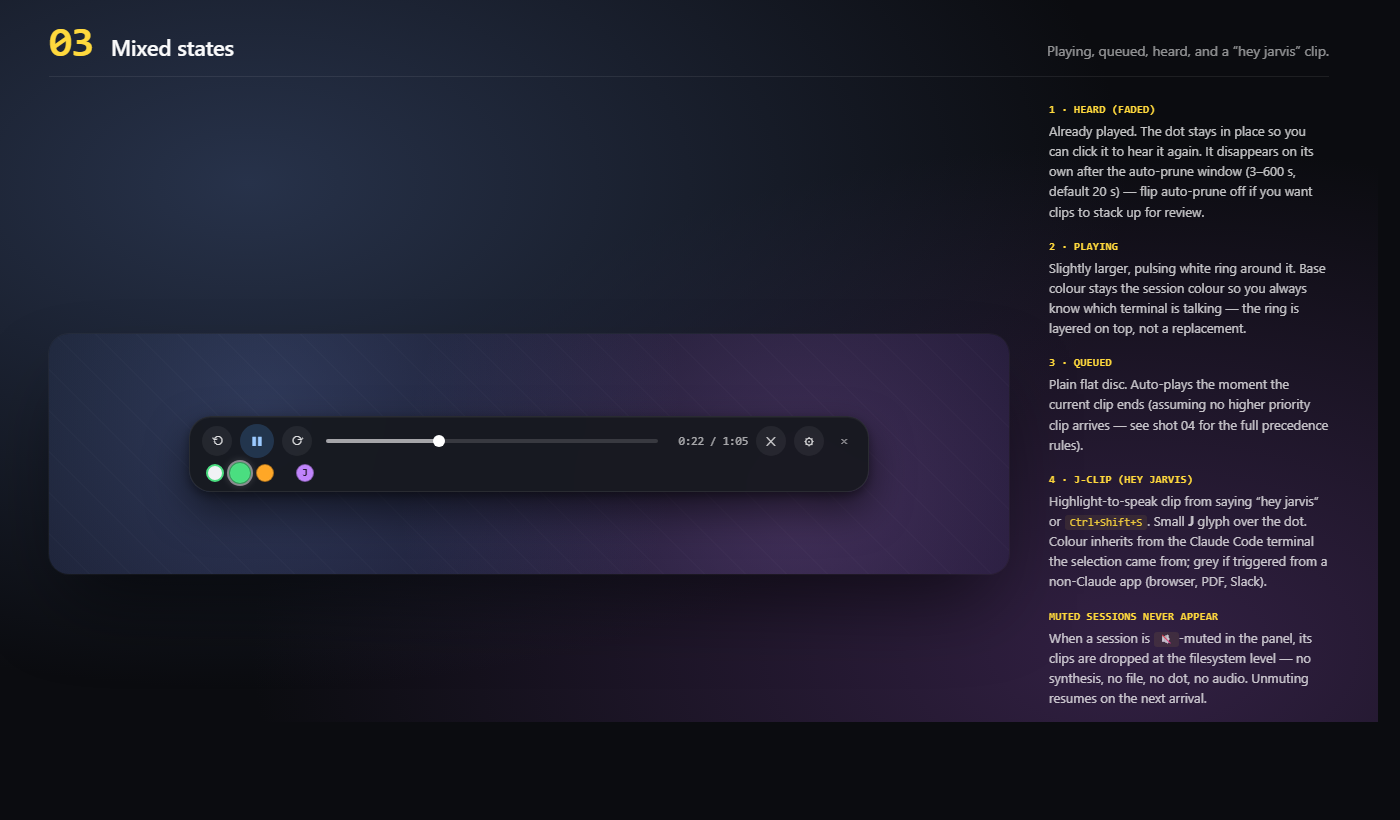
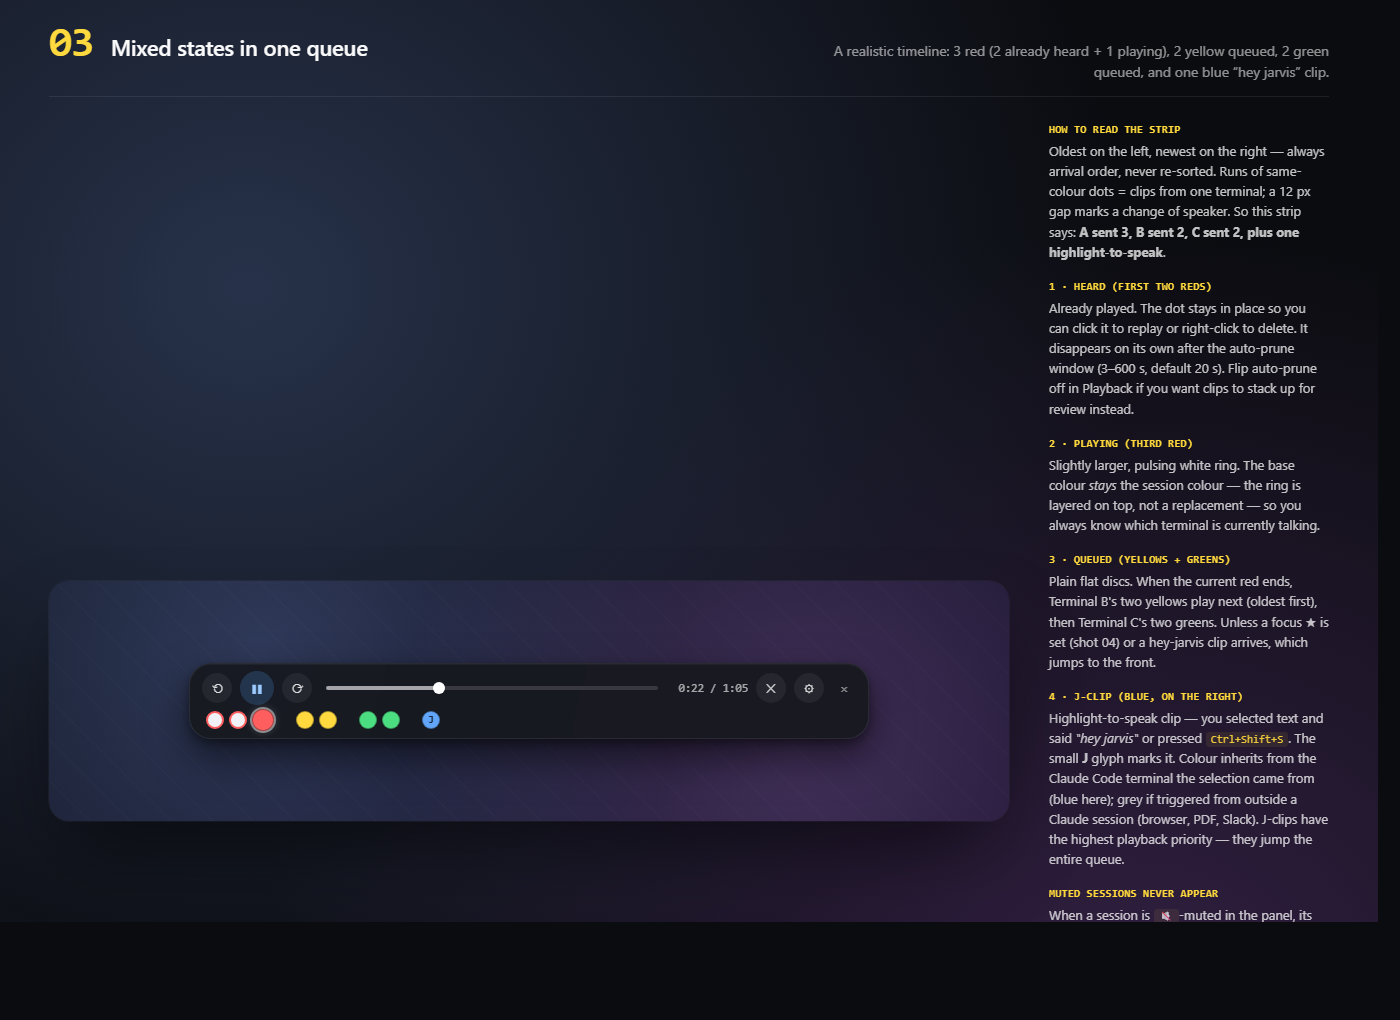
docs(mocks): expand shot 03 — full mixed-state queue story
Previously showed only four dots without any clustering context.
Now matches shot 02's run-grouped layout with real state mix:

- Run 1 · Terminal A (red) · 3 clips: first two heard (faded,
  click to replay, right-click to delete), third playing with
  the pulsing white ring.
- gap · Run 2 · Terminal B (yellow) · 2 queued flat discs.
- gap · Run 3 · Terminal C (green) · 2 queued flat discs.
- gap · J-clip from hey-jarvis / Ctrl+Shift+S — blue so you can
  see it inherits the source terminal's colour.

Annotations walk through each state in place (how to read the
strip, the two heard reds, the playing third red, the yellow
+ green queued, the J-clip priority), plus cover: muted sessions
never produce dots, left/right-click interactions, and the trash
button for clear-all.

Shot height bumped to 1020 px so the 8-annotation column fits.

diff --git a/docs/design-system/mocks-annotated.html b/docs/design-system/mocks-annotated.html
@@ -743,8 +743,8 @@
   <section>
     <div class="shot-head">
       <div class="num">03</div>
-      <div class="title">Mixed states</div>
-      <div class="caption">Playing, queued, heard, and a “hey jarvis” clip.</div>
+      <div class="title">Mixed states in one queue</div>
+      <div class="caption">A realistic timeline: 3 red (2 already heard + 1 playing), 2 yellow queued, 2 green queued, and one blue “hey jarvis” clip.</div>
     </div>
 
     <div class="stage">
@@ -765,11 +765,21 @@
           </div>
           <div class="dots-row">
             <div class="dots">
-              <div class="dot c-green heard"></div>
-              <div class="dot c-green playing"></div>
-              <div class="dot c-orange"></div>
+              <!-- Run 1: Terminal A (red) — 3 clips, two heard, one playing -->
+              <div class="dot c-red heard"></div>
+              <div class="dot c-red heard"></div>
+              <div class="dot c-red playing"></div>
               <span class="dots-run-gap"></span>
-              <div class="dot c-purple j"></div>
+              <!-- Run 2: Terminal B (yellow) — 2 queued -->
+              <div class="dot c-yellow"></div>
+              <div class="dot c-yellow"></div>
+              <span class="dots-run-gap"></span>
+              <!-- Run 3: Terminal C (green) — 2 queued -->
+              <div class="dot c-green"></div>
+              <div class="dot c-green"></div>
+              <span class="dots-run-gap"></span>
+              <!-- J-clip: highlight-to-speak from a Claude terminal (blue) -->
+              <div class="dot c-blue j"></div>
             </div>
           </div>
         </div>
@@ -778,28 +788,36 @@
       <div class="annotations">
         <dl>
           <div>
-            <dt>1 · Heard (faded)</dt>
-            <dd>Already played. The dot stays in place so you can click it to hear it again. It disappears on its own after the auto-prune window (3–600 s, default 20 s) — flip auto-prune off if you want clips to stack up for review.</dd>
+            <dt>How to read the strip</dt>
+            <dd>Oldest on the left, newest on the right — always arrival order, never re-sorted. Runs of same-colour dots = clips from one terminal; a 12 px gap marks a change of speaker. So this strip says: <b>A sent 3, B sent 2, C sent 2, plus one highlight-to-speak</b>.</dd>
           </div>
           <div>
-            <dt>2 · Playing</dt>
-            <dd>Slightly larger, pulsing white ring around it. Base colour stays the session colour so you always know which terminal is talking — the ring is layered on top, not a replacement.</dd>
+            <dt>1 · Heard (first two reds)</dt>
+            <dd>Already played. The dot stays in place so you can click it to replay or right-click to delete. It disappears on its own after the auto-prune window (3–600 s, default 20 s). Flip auto-prune off in Playback if you want clips to stack up for review instead.</dd>
           </div>
           <div>
-            <dt>3 · Queued</dt>
-            <dd>Plain flat disc. Auto-plays the moment the current clip ends (assuming no higher priority clip arrives — see shot 04 for the full precedence rules).</dd>
+            <dt>2 · Playing (third red)</dt>
+            <dd>Slightly larger, pulsing white ring. The base colour <i>stays</i> the session colour — the ring is layered on top, not a replacement — so you always know which terminal is currently talking.</dd>
           </div>
           <div>
-            <dt>4 · J-clip (hey jarvis)</dt>
-            <dd>Highlight-to-speak clip from saying “hey jarvis” or <code>Ctrl+Shift+S</code>. Small <b>J</b> glyph over the dot. Colour inherits from the Claude Code terminal the selection came from; grey if triggered from a non-Claude app (browser, PDF, Slack).</dd>
+            <dt>3 · Queued (yellows + greens)</dt>
+            <dd>Plain flat discs. When the current red ends, Terminal B's two yellows play next (oldest first), then Terminal C's two greens. Unless a focus ★ is set (shot 04) or a hey-jarvis clip arrives, which jumps to the front.</dd>
+          </div>
+          <div>
+            <dt>4 · J-clip (blue, on the right)</dt>
+            <dd>Highlight-to-speak clip — you selected text and said <i>"hey jarvis"</i> or pressed <code>Ctrl+Shift+S</code>. The small <b>J</b> glyph marks it. Colour inherits from the Claude Code terminal the selection came from (blue here); grey if triggered from outside a Claude session (browser, PDF, Slack). J-clips have the highest playback priority — they jump the entire queue.</dd>
           </div>
           <div>
             <dt>Muted sessions never appear</dt>
-            <dd>When a session is <code>🔇</code>-muted in the panel, its clips are dropped at the filesystem level — no synthesis, no file, no dot, no audio. Unmuting resumes on the next arrival.</dd>
+            <dd>When a session is <code>🔇</code>-muted in the panel, its clips are dropped at arrival — no synthesis, no file on disk, no dot, no audio. The statusline in that terminal shows a <code>🔇</code> prefix so you remember. Unmuting resumes on the next clip the terminal produces.</dd>
           </div>
           <div>
-            <dt>Right-click to delete</dt>
-            <dd>Right-click any dot to remove it immediately (without waiting for auto-prune). Left-click plays it again.</dd>
+            <dt>Click / right-click</dt>
+            <dd>Left-click any dot to (re)play it manually. Right-click to remove it from the queue immediately without waiting for auto-prune. Both work on heard clips and queued clips.</dd>
+          </div>
+          <div>
+            <dt>Clear all</dt>
+            <dd>The ✕ (trash) button in the controls row wipes <i>every</i> clip at once — useful when three chatty terminals fire at the same time and you just want quiet. Held clips (currently playing) finish first; the rest drop.</dd>
           </div>
         </dl>
       </div>

diff --git a/README.md b/README.md
@@ -57,13 +57,13 @@ The baseline. 680 × 64 frameless two-row pill, always-on-top, drag anywhere to 
 
 Three terminals queued in arrival order: **3 red** from Terminal A (first one playing, 2 queued behind), **3 yellow** from Terminal B, **2 green** from Terminal C. The 12 px gap between runs marks a change of speaker so the timeline reads as **A A A — B B B — C C** at a glance. Oldest left, newest right, never re-sorted. If Terminal C has the important message you'd wait through 5 clips first — that's the story shot 04's focus-star solves.
 
-### 03 · Mixed states
+### 03 · Mixed states in one queue
 
 <p align="center">
-  <img src="docs/screenshots/toolbar-mixed-states.png" alt="Four dot states: heard (faded), playing (pulsing ring), queued (flat disc), J-clip (hey jarvis highlight-to-speak)" width="900">
+  <img src="docs/screenshots/toolbar-mixed-states.png" alt="Eight dots on one bar: 3 red (first 2 faded=heard, 3rd playing with ring), gap, 2 yellow queued, gap, 2 green queued, gap, 1 blue J-clip for hey-jarvis highlight-to-speak" width="900">
 </p>
 
-**Heard** (already played, auto-prunes after 3–600 s, click to replay, right-click to delete) · **Playing** (pulsing white ring around the session colour) · **Queued** (flat disc, auto-plays when current ends) · **J-clip** — a highlight-to-speak capture from "hey jarvis" / `Ctrl+Shift+S`. Muted sessions never appear here at all.
+A real queue in flight. Reading left to right: Terminal A (red) sent 3 clips — you've **heard** the first two (faded, click to replay, right-click to delete) and the third is **playing** now (pulsing white ring around the same red). Terminal B (yellow) has 2 **queued** flat discs behind it, then Terminal C (green) has 2 more. The blue dot on the far right is a **J-clip** — a highlight-to-speak capture from "hey jarvis" / `Ctrl+Shift+S`; J-clips have the highest priority and jump the whole queue when they arrive. Auto-prune removes heard clips after 3–600 s (default 20 s); muted sessions never produce dots at all.
 
 ### 04 · Settings panel open
 
